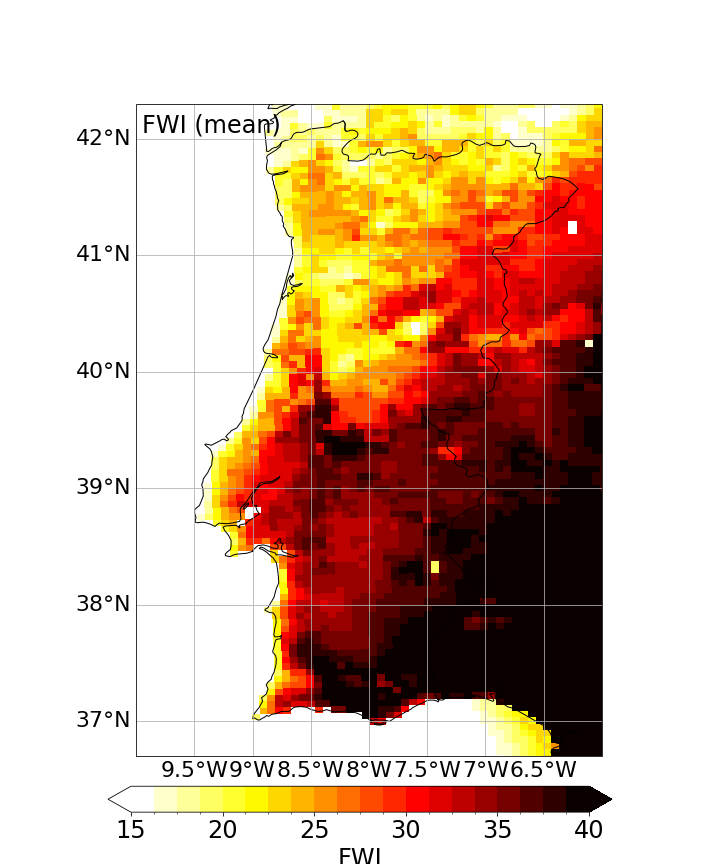
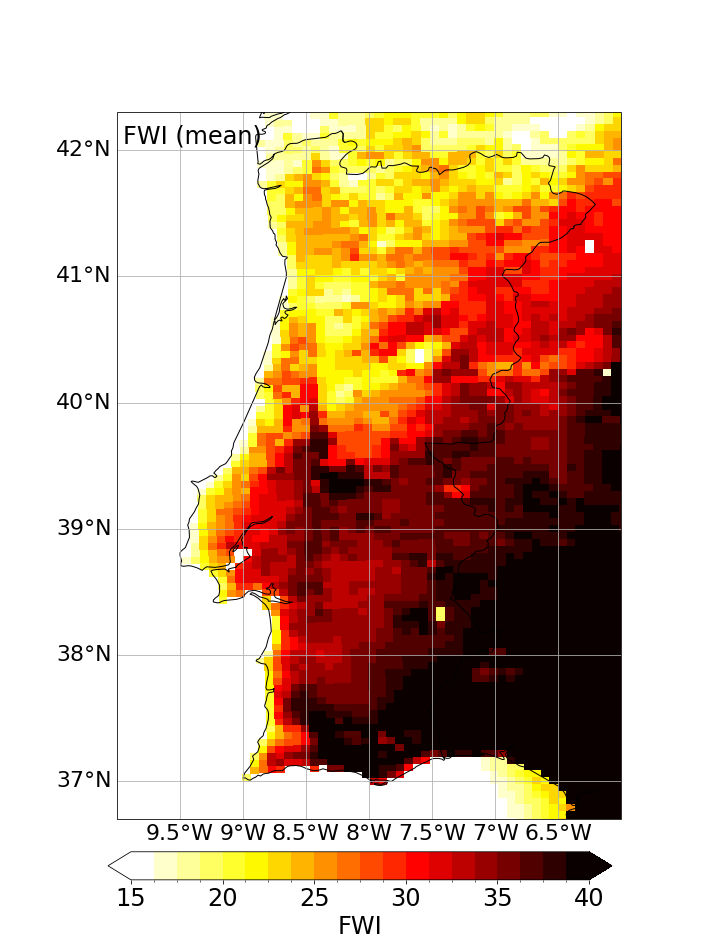
First commit

diff --git a/examples/plots_fwi.py b/examples/plots_fwi.py
@@ -101,7 +101,7 @@ label_name = 'FWI (mean)'
 var = 'fwi_mean_nomask'
 fig_p = output_dir+plot_name1
 cb_lims, delta_c = [[15, 40], 5] # colorbar limits and delta
-fig, ax = make_map(my_proj, fnt_size=22, fig_size=[10, 12])
+fig, ax = make_map(my_proj, fnt_size=22, fig_size=[10, 13])
 plot_fwi_vars(fig=fig, ax=ax, fig_path=fig_p, domain_lims=d_lims, var=var,
                var_dict=fwi_fields, lon=lon, lat=lat, top_label=label_name,
                colorbar_lims=cb_lims, colorbar_delta=delta_c)
@@ -110,7 +110,7 @@ label_name = 'FWI (mean)'
 var = 'fwi_mean'
 fig_p = output_dir+plot_name2
 cb_lims, delta_c = [[15, 40], 5]
-fig, ax = make_map(my_proj, fnt_size=22, fig_size=[10, 12])
+fig, ax = make_map(my_proj, fnt_size=22, fig_size=[10, 13])
 plot_fwi_vars(fig=fig, ax=ax, fig_path=fig_p, domain_lims=d_lims, var=var,
                var_dict=fwi_fields, lon=lon, lat=lat, top_label=label_name,
                colorbar_lims=cb_lims, colorbar_delta=delta_c)
@@ -120,7 +120,7 @@ danger_lvl = 'veryhigh'
 var = 'ndays_'+danger_lvl
 fig_p = output_dir+plot_name3
 cb_lims, delta_c = [[0, 20], 4]
-fig, ax = make_map(my_proj, fnt_size=22, fig_size=[10, 12])
+fig, ax = make_map(my_proj, fnt_size=22, fig_size=[10, 13])
 plot_fwi_vars(fig=fig, ax=ax, fig_path=fig_p, domain_lims=d_lims, var=var,
                var_dict=fwi_fields, lon=lon, lat=lat, top_label=label_name,
                colorbar_lims=cb_lims, colorbar_delta=delta_c)
@@ -130,7 +130,7 @@ danger_lvl = 'extreme'
 var = 'ndays_'+danger_lvl
 fig_p = output_dir+plot_name4
 cb_lims, delta_c = [[0, 10], 2]
-fig, ax = make_map(my_proj, fnt_size=22, fig_size=[10, 12])
+fig, ax = make_map(my_proj, fnt_size=22, fig_size=[10, 13])
 plot_fwi_vars(fig=fig, ax=ax, fig_path=fig_p, domain_lims=d_lims, var=var,
                var_dict=fwi_fields, lon=lon, lat=lat, top_label=label_name,
                colorbar_lims=cb_lims, colorbar_delta=delta_c)
